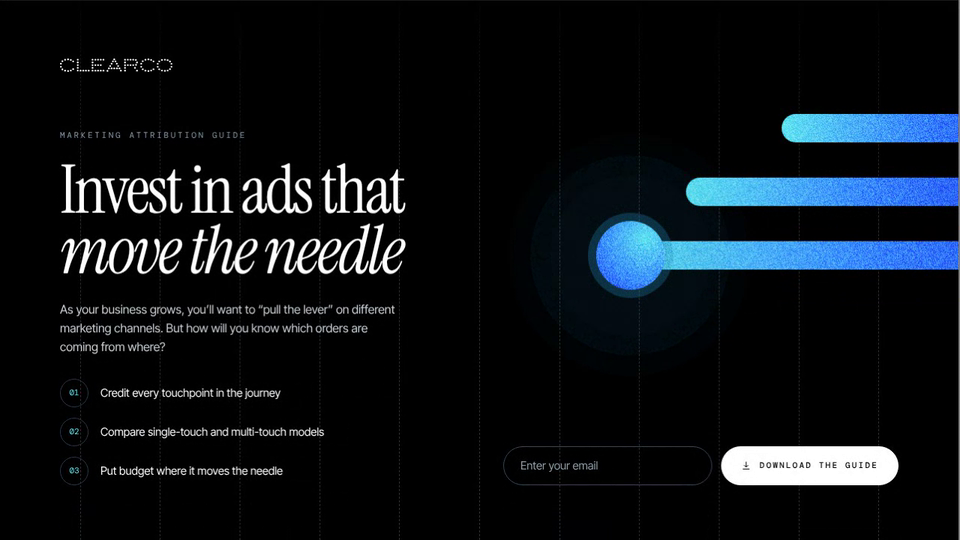
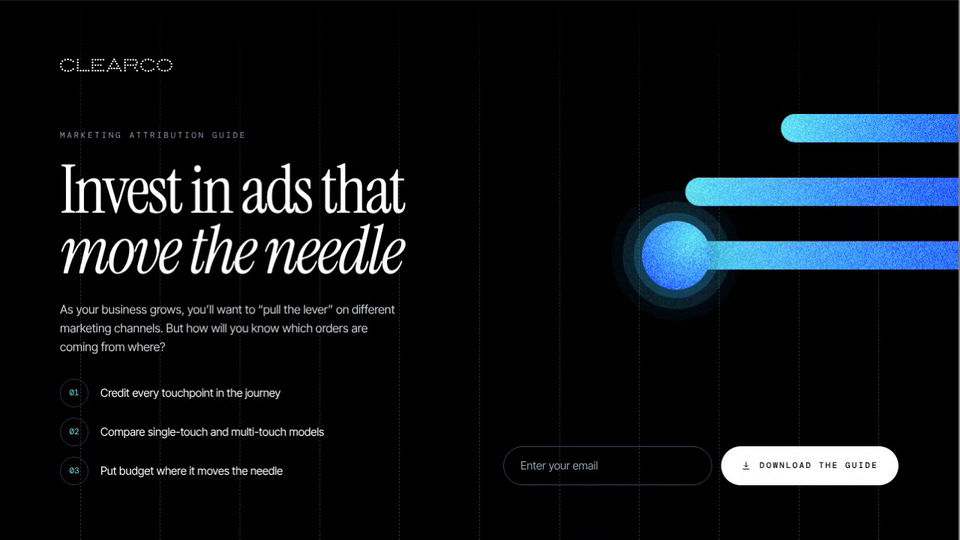
Attribution Guide: subtler hero breathing, circle bar shorter (#138)
* Add Clearco Attribution Guide landing page

Built on the Logistics Guide page with the attribution guide's brand: grainy gradient timeline pills that extend with a circle on the leading end, ripple discs, dashed guide lines, gradient numerals, and a model explorer whose vertical pills reshape per attribution model. Adds the homepage tile and clip recipe.

Claude-Session: https://claude.ai/code/session_01AHeBdyii5AjQS77wpPRRok

* Attribution Guide: remove the Track every touchpoint text and ripple circle

Claude-Session: https://claude.ai/code/session_01AHeBdyii5AjQS77wpPRRok

* Attribution Guide: hero email sign-up in the right column under the pills, divider under the hero, square edge on pills that bleed off screen

Claude-Session: https://claude.ai/code/session_01AHeBdyii5AjQS77wpPRRok

* Attribution Guide: remove the dotted background lines from the touchpoint section

Claude-Session: https://claude.ai/code/session_01AHeBdyii5AjQS77wpPRRok

* Attribution Guide: hero visual moved up; re-record clip

Claude-Session: https://claude.ai/code/session_01AHeBdyii5AjQS77wpPRRok

* Attribution Guide: narrower body text columns

Claude-Session: https://claude.ai/code/session_01AHeBdyii5AjQS77wpPRRok

* Attribution Guide: lower hero visual with tighter bars, circle and double ripple timed to the pill, sign-up aligned to the 03 row, heading line break

Claude-Session: https://claude.ai/code/session_01AHeBdyii5AjQS77wpPRRok
[…]

diff --git a/clearco-attribution-guide/index.html b/clearco-attribution-guide/index.html
@@ -297,7 +297,7 @@ footer .sign{margin-top:28px;color:#8fa0ad;font-size:14px}
     <div class="vis" data-anim="8.2" data-ripple data-grow role="img" aria-label="Three horizontal gradient pills extend in from the right edge of a black page with dashed guide lines; the longest ends in a glowing circle with ripples around it">
       <div class="pr" style="--y:12%;--h:38px;--w:.4" data-d="0.5"></div>
       <div class="pr" style="--y:30%;--h:38px;--w:.6" data-d="0.25"></div>
-      <div class="pr" style="--y:48%;--h:38px;--w:.72;--hd:92px" data-d="0"><span class="hw"><span class="rp"><i></i><i></i><i></i></span><span class="hd"></span></span></div>
+      <div class="pr" style="--y:48%;--h:38px;--w:.62;--hd:92px" data-d="0"><span class="hw"><span class="rp"><i></i><i></i><i></i></span><span class="hd"></span></span></div>
     </div>
     <form class="signup" action="https://www.clear.co/" data-guide="https://www.clear.co/" novalidate><label class="em"><span class="sr">Email address</span><input type="email" name="email" placeholder="Enter your email" autocomplete="email" required></label><button class="btn" type="submit"><svg viewBox="0 0 16 16" width="13" height="13" fill="none" stroke="currentColor" stroke-width="1.2" aria-hidden="true"><path d="M8 2v9M4.5 7.5 8 11l3.5-3.5M2.5 14h11"/></svg> Download the guide</button><p class="err" role="alert" hidden>Please enter a valid email address.</p></form>
     </div>
@@ -493,7 +493,7 @@ footer .sign{margin-top:28px;color:#8fa0ad;font-size:14px}
       var t = reduce ? 1e3 : base % g.T, lead = 1;
       g.pls.forEach(function(p, k){
         var v = reduce ? 1 : pill(t, p.d, g.T);
-        if (!reduce && !p.head && g.el.hasAttribute('data-grow')) v *= 1 - .06 * v * (.5 + .5 * Math.sin(base * 6.2832 / p.per + p.ph));   /* the bars without a circle slowly breathe in and out while they rest */
+        if (!reduce && !p.head && g.el.hasAttribute('data-grow')) v *= 1 - .03 * v * (.5 + .5 * Math.sin(base * 6.2832 / p.per + p.ph));   /* the bars without a circle slowly breathe in and out while they rest */
         if (k === 0 || p.el.classList.contains('lead')) lead = k === 0 ? v : lead;
         p.el.style.setProperty('--p', v.toFixed(4));
         var rp = g.el.hasAttribute('data-ripple') && p.el.querySelector('.rp');
